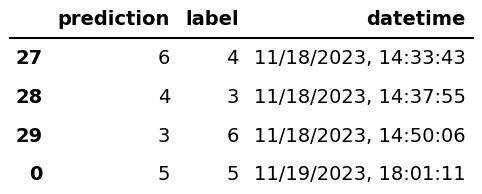
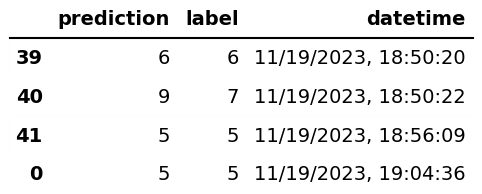
changes

diff --git a/Lab1/Task2/wine-batch-inference-pipeline.py b/Lab1/Task2/wine-batch-inference-pipeline.py
@@ -53,64 +53,17 @@ def g():
     wine_quality = round(y_pred[y_pred.size-offset])
     print("Predicted Wine Quality: " + str(wine_quality))
 
-    #even values for quality outputs a jpg, while odd values for quality outputs a gif (for amusing visual purposes)
-
-
-    # if int(wine_quality) % 2 == 0:
-    #     os.makedirs("../resources/images/", exist_ok=True)
-    #     with open("../resources/images/latest_prediction.jpg", "wb") as gif:
-    #         gif.write(
-    #             requests.get(
-    #                 "https://raw.githubusercontent.com/Lukox/KTH-ID2223/main/Lab1/Task2/Assets/"+ str(wine_quality) +".jpg"
-    #             ).content
-    #         )
-    #     dataset_api = project.get_dataset_api()    
-    #     dataset_api.upload("../resources/images/latest_prediction.jpg", "Resources/images", overwrite=True)  
-    # else:
-    #     os.makedirs("../resources/images/", exist_ok=True)
-    #     with open("../resources/images/latest_prediction.gif", "wb") as gif:
-    #         gif.write(
-    #             requests.get(
-    #                 "https://raw.githubusercontent.com/Lukox/KTH-ID2223/main/Lab1/Task2/Assets/"+ str(wine_quality) +".gif"
-    #             ).content
-    #         )
-    #     dataset_api = project.get_dataset_api()    
-    #     dataset_api.upload("../resources/images/latest_prediction.gif", "Resources/images", overwrite=True)
-
    # the actual value for quality of the newly generated wine is taken from the feature group, as the newly generated wine is stored there 
     wine_fg = fs.get_feature_group(name="wine", version=3)
     df = wine_fg.read() 
-    #print(df)
+
     #label = actual quality
     label = df.iloc[-offset]["quality"]
     label = int(label)
     print("Actual Wine Quality: "+ str(label))
 
-    #even values for quality outputs a jpg, while odd values for quality outputs a gif (for amusing visual purposes) 
-    # if label % 2 == 0:
-    #     with open("../resources/images/correct_prediction.jpg", "wb") as gif:
-    #         gif.write(
-    #             requests.get(
-    #                 "https://raw.githubusercontent.com/Lukox/KTH-ID2223/main/Lab1/Task2/Assets/"+ str(label) +".jpg"
-    #             ).content
-    #         )
-
-    #     dataset_api.upload(
-    #         "../resources/images/correct_prediction.jpg", "Resources/images", overwrite=True
-    #     )
-    # else:
-    #     with open("../resources/images/correct_prediction.gif", "wb") as gif:
-    #         gif.write(
-    #             requests.get(
-    #                 "https://raw.githubusercontent.com/Lukox/KTH-ID2223/main/Lab1/Task2/Assets/"+ str(label) +".gif"
-    #             ).content
-    #         )
-
-    #     dataset_api.upload(
-    #         "../resources/images/correct_prediction.gif", "Resources/images", overwrite=True
-    #     )
-
-    dataset_api = project.get_dataset_api()    
+    dataset_api = project.get_dataset_api()
+        
     #if directory doesn't exist, create one to store the predicted quality and actual quality images
     os.makedirs("../resources/images/", exist_ok=True)
     with open("../resources/images/latest_prediction.png", "wb") as gif:
@@ -142,12 +95,14 @@ def g():
     #get the time string representation of date and time of the new prediction and create a dataframe with predicted quality, actual quality and datetime
     now = datetime.now().strftime("%m/%d/%Y, %H:%M:%S")
     data = {
-            'prediction': [9],
-            'label': [9],
+            'prediction': [wine_quality],
+            'label': [label],
             'datetime': [now],
         }
     #monitor_df is the dataframe of the newly generated wine
     monitor_df = pd.DataFrame(data)
+
+    #inserts the new prediction into wine_predictions feature group
     monitor_fg.insert(monitor_df, write_options={"wait_for_job" : False})
     
     #history_df contains all the data of wines from the feature group
@@ -169,9 +124,9 @@ def g():
     predictions = history_df[['prediction']]
     labels = history_df[['label']]
 
-    # Only create the confusion matrix when our wine_predictions feature group has examples of all 6 wine qualities
+    # Only create the confusion matrix when our wine_predictions feature group has examples of all 7 wine qualities
     print("Number of different wine quality predictions to date: " + str(predictions.value_counts().count()))
-    #if predictions.value_counts().count() == 6:
+    #if predictions.value_counts().count() == 7:
     results = confusion_matrix(labels, predictions)
 
     df_cm = pd.DataFrame(results, ['True 3', 'True 4', 'True 5', 'True 6', 'True 7', 'True 8', 'True 9'],
@@ -179,11 +134,11 @@ def g():
 
     cm = sns.heatmap(df_cm, annot=True)
     fig = cm.get_figure()
-    fig.savefig("./confusion_matrix.png")
+    fig.savefig("./wine_confusion_matrix.png")
     dataset_api.upload("./wine_confusion_matrix.png", "Resources/images", overwrite=True)
     # else:
-    #     print("You need 6 different wine quality predictions to create the confusion matrix.")
-    #     print("Run the batch inference pipeline more times until you get 6 different wine quality predictions") 
+    #     print("You need 7 different wine quality predictions to create the confusion matrix.")
+    #     print("Run the batch inference pipeline more times until you get 7 different wine quality predictions") 
 
 
 if __name__ == "__main__":

diff --git a/Lab1/Task2/daily-wine-feature-pipeline.py b/Lab1/Task2/daily-wine-feature-pipeline.py
@@ -49,7 +49,7 @@ def g():
     #Login to hopsworks and access wine feature group
     project = hopsworks.login()
     fs = project.get_feature_store()
-    wine_fg = fs.get_feature_group(name="wine",version=2)
+    wine_fg = fs.get_feature_group(name="wine",version=3)
 
     #Gets new wine and inserts into feature group
     new_wine_df = get_random_wine(wine_fg)

diff --git a/Lab1/Task2/huggingface-spaces-wine/app.py b/Lab1/Task2/huggingface-spaces-wine/app.py
@@ -12,7 +12,7 @@ fs = project.get_feature_store()
 
 #download the training model from hopsworks 
 mr = project.get_model_registry()
-model = mr.get_model("wine_model", version=16)
+model = mr.get_model("wine_model", version=17)
 model_dir = model.download()
 model = joblib.load(model_dir + "/wine_model.pkl")
 print("Model downloaded")
